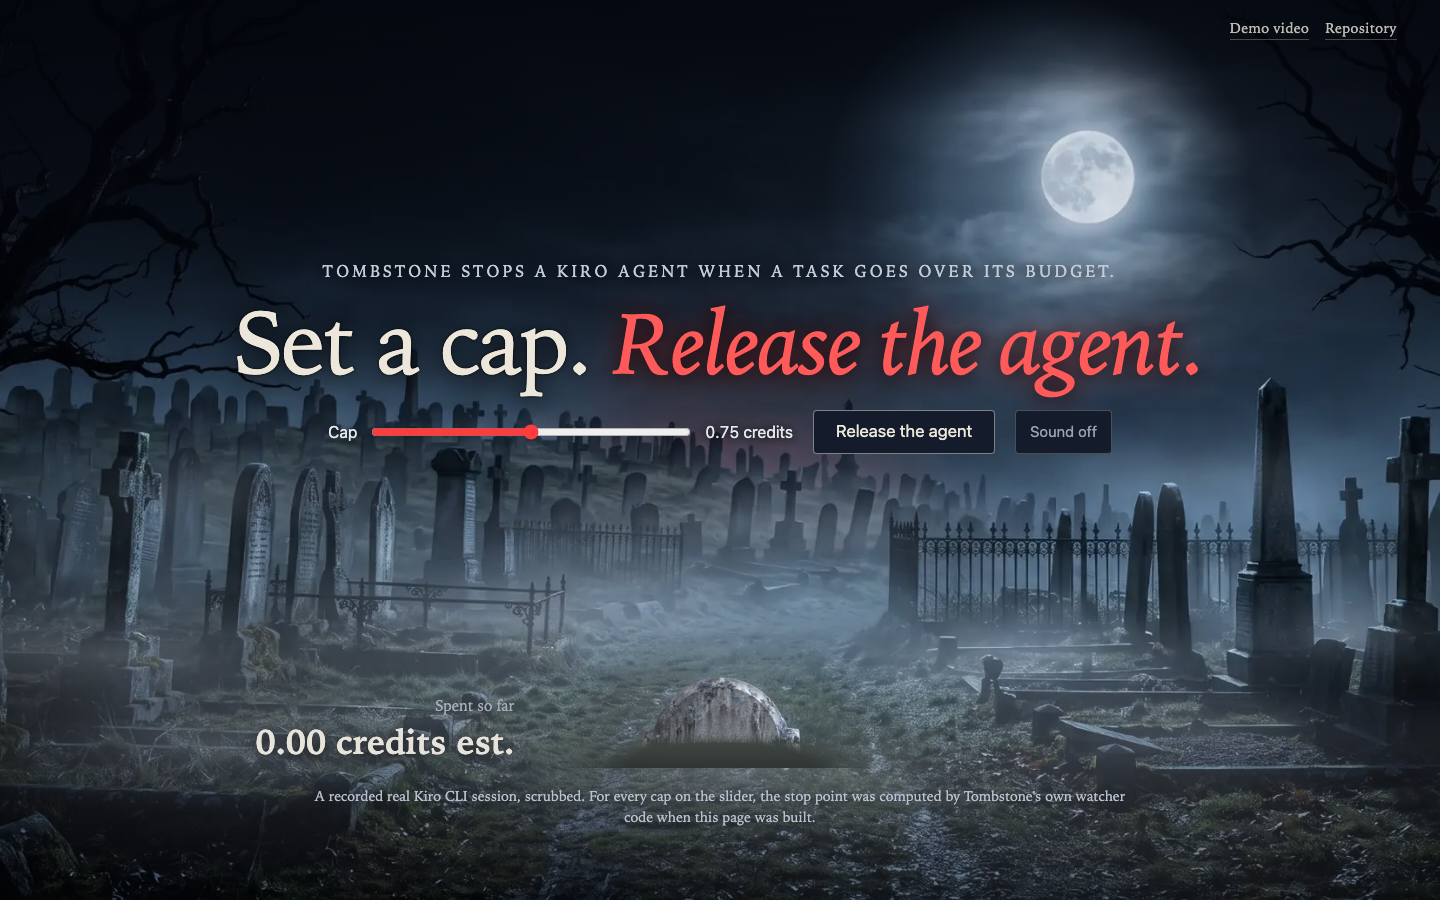
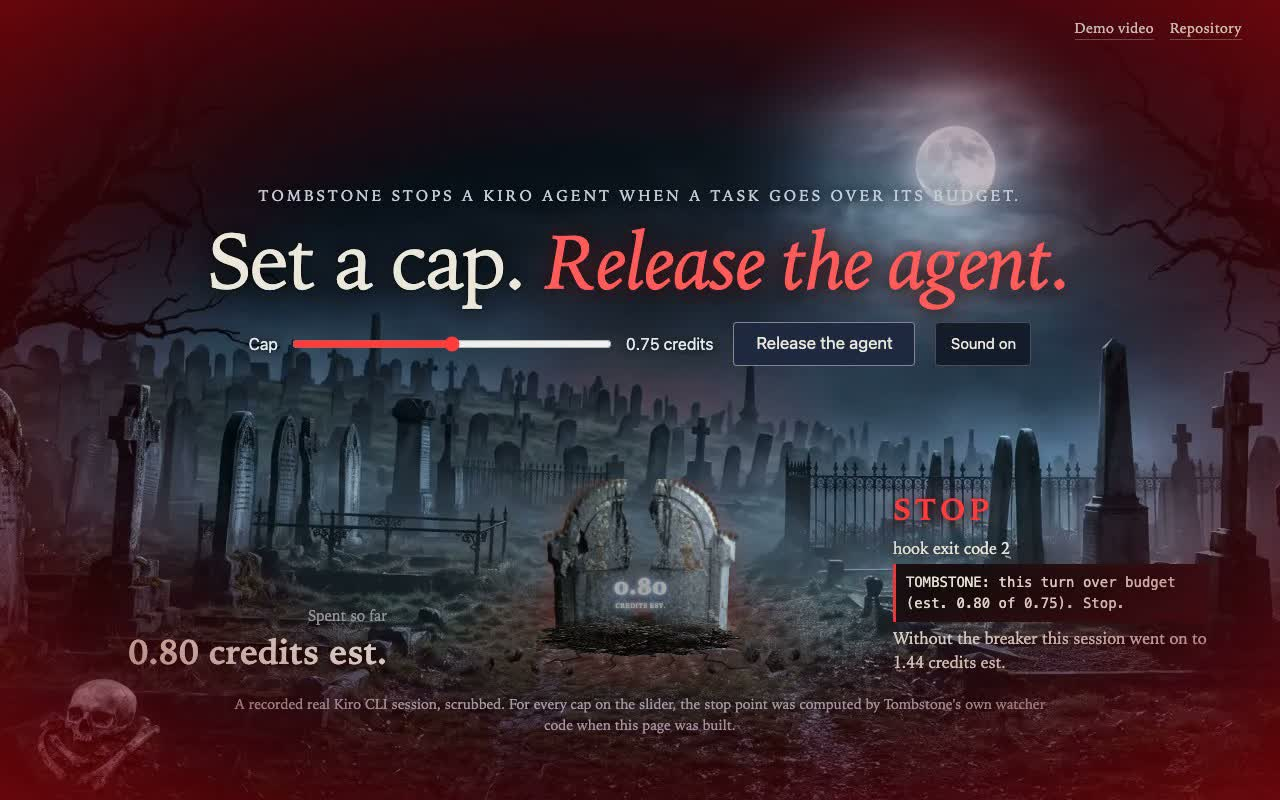
README and log: numbers of the current page, sound credits, new screenshot

diff --git a/README.md b/README.md
@@ -7,7 +7,7 @@
 
 **Who it's for:** a developer on a paid Kiro plan who starts a spec and walks away.
 
-**Built with Kiro:** the spec in `.kiro/specs/tombstone/` (17 requirements in EARS, 28 tasks), 7 command hooks, a steering file, the MCP tool `get_budget` and a Power in `power/`. One requirement followed all the way to the refusal the agent reads: [From spec to hook](#from-spec-to-hook).
+**Built with Kiro:** the spec in `.kiro/specs/tombstone/` (23 requirements in EARS, 34 tasks), 7 command hooks, a steering file, the MCP tool `get_budget` and a Power in `power/`. One requirement followed all the way to the refusal the agent reads: [From spec to hook](#from-spec-to-hook).
 
 Tombstone is a circuit breaker for Kiro specs. You give every spec task a credit cap. When a running task goes past it, Tombstone blocks the agent's next tool call with a plain message, and if the agent keeps going, it ends the `kiro-cli` process for that project. Every finished task gets a tombstone with its real price, and every stopped one leaves a receipt. The breaker itself spends zero credits and never changes your model.
 
@@ -21,9 +21,9 @@ Built for Kiroween 2026, Costume Contest. MIT. Tested on Kiro CLI 3.0.0 and 3.1.
 
 ![The first screen of the graveyard page: set a cap, release the agent, and the headstone cracks at the cap](docs/img/graveyard.png)
 
-The night cemetery and the headstone photo on the page were generated with Nano Banana Pro (Google Gemini) by the author; everything else on the page is drawn by code Kiro wrote.
+The night cemetery, the headstone, the soil and the bones on the page are photos the author generated with Nano Banana Pro (Google Gemini); the night ambience was generated with Suno and the stone, soil and split sounds with ElevenLabs. Sound starts with the first click and can be turned off. Everything that moves, and when it moves, is code Kiro wrote.
 
-Most graveyards in Kiroween bury code or tasks. This one buries money: every stone is what one Kiro spec task really cost, and every cracked stone is a task the breaker stopped. The 235.86 credits on the page are this repo's own build (223.49 credits over 95 stones) plus the 25 live test runs the breaker stopped (12.05 credits priced, and 0.32 estimated for the one turn Tombstone killed, since Kiro writes no price for a killed turn). Click a cracked stone and its card shows the receipt: why it stopped, the refusal the agent read and its last tool calls. 11 of the 25 stops kept a receipt; the scratch projects of the early runs are gone. So the page shows 120 stones: 95 from the build and 25 stops. Kiro's own `/usage` counts more, 347.69 credits, because it covers the whole account, with test runs, measurements, the cost experiment and the video recording.
+Most graveyards in Kiroween bury code or tasks. This one buries money: every stone is what one Kiro spec task really cost, and every cracked stone is a task the breaker stopped. The 282.45 credits on the page are this repo's own build (270.08 credits over 126 stones) plus the 25 live test runs the breaker stopped (12.05 credits priced, and 0.32 estimated for the one turn Tombstone killed, since Kiro writes no price for a killed turn). Click a cracked stone and its card shows the receipt: why it stopped, the refusal the agent read and its last tool calls. 11 of the 25 stops kept a receipt; the scratch projects of the early runs are gone. So the page shows 151 stones: 126 from the build and 25 stops. Kiro's own `/usage` counts more, 394.37 credits, because it covers the whole account, with test runs, measurements, the cost experiment and the video recording.
 
 - **Prices every spec task** in credits, from the session files Kiro already writes. Nothing leaves your machine.
 - **Stops a runaway turn** past its cap: the `PreToolUse` hook refuses the next tool call, and the agent reads why.
@@ -46,7 +46,7 @@ flowchart LR
 
 ## Try it in 60 seconds
 
-You don't need Kiro or credits for this part. You need Python 3.11 or newer; the `python3` that ships with macOS is often older, so the commands use [uv](https://docs.astral.sh/uv/). The repo carries the 95 real tombstones from its own build, the 25 turns the breaker stopped in our live tests (`live_stops.json`) and a real V3 session.
+You don't need Kiro or credits for this part. You need Python 3.11 or newer; the `python3` that ships with macOS is often older, so the commands use [uv](https://docs.astral.sh/uv/). The repo carries the 126 real tombstones from its own build, the 25 turns the breaker stopped in our live tests (`live_stops.json`) and a real V3 session.
 
 ```bash
 git clone https://github.com/DmitriyTopka/tombstone && cd tombstone
@@ -147,7 +147,7 @@ One line of the spec, followed to the refusal the agent reads:
 3. **Hook** [`.kiro/hooks/tombstone-pre-tool.json`](.kiro/hooks/tombstone-pre-tool.json): trigger `PreToolUse`, a shell command, no agent prompt, so it costs nothing.
 4. **Refusal**: Kiro gets exit code 2, refuses the tool and hands the agent `TOMBSTONE: this turn over budget (est. 0.11 of 0.10). Stop.`
 
-Where each Kiro surface sits: the spec (17 requirements in EARS, 28 tasks), 7 command hooks, a steering file, the MCP tool `get_budget`, and a Power in `power/`.
+Where each Kiro surface sits: the spec (23 requirements in EARS, 34 tasks), 7 command hooks, a steering file, the MCP tool `get_budget`, and a Power in `power/`.
 
 ## What surprised us about Kiro
 
@@ -160,7 +160,7 @@ Where each Kiro surface sits: the spec (17 requirements in EARS, 28 tasks), 7 co
 
 Every line of product code was written by Kiro CLI from the spec in `.kiro/specs/tombstone/`: `requirements.md` in EARS notation, `design.md` and `tasks.md` generated by Kiro from it. A human picked the next task, read the diff and ran the checks. Each task was run with `kiro-cli chat --no-interactive` and priced by Tombstone itself, with its own hooks installed in this repo.
 
-The build log with the credits per task is in [KIRO_LOG.md](KIRO_LOG.md). The 95 tombstones in [tombstones.json](tombstones.json) add up to 223.49 credits of priced turns: 73 spec tasks and 22 turns that ticked no checkbox, filed as unknown. The whole build, measurements, test runs, the cost experiment and the video recording included, used 347.69 credits by `/usage`. 637 tests run in about seven seconds and need no Kiro install.
+The build log with the credits per task is in [KIRO_LOG.md](KIRO_LOG.md). The 126 tombstones in [tombstones.json](tombstones.json) add up to 270.08 credits of priced turns: 104 spec tasks and 22 turns that ticked no checkbox, filed as unknown. The whole build, measurements, test runs, the cost experiment and the video recording included, used 394.37 credits by `/usage`. 686 tests run in about seven seconds and need no Kiro install.
 
 ## How we used Kiro
 

diff --git a/KIRO_LOG.md b/KIRO_LOG.md
@@ -275,3 +275,7 @@ Cost: about 7.53 credits for 28 and 28.4 (/usage 340.16 to 347.69).
 ## 2026-11-26 Task 29, the headstone breaks through the earth (approved by Dima)
 Dima's idea: the slab should break the ground, shed earth as it climbs, stand in a heap of soil and split in half only at the very end. Added Requirement 18 and task 29. Kiro: the ground heaves and cracks before the stone appears, clumps and crumbs fall with each step, the stone ends in a heap of earth sized by its height, and 450 ms after the last step STOP shows and the stone splits into two halves with a red glow in the gap. Inline SVG, CSS and script only. 642 tests pass. Checked by Claude in a browser at 1500 and 375 px mid-rise and after the split.
 Cost: about 5.34 credits (/usage 347.69 to 353.03).
+
+## 2026-11-26 Tasks 29 to 34.6, the first screen as a horror scene (approved by Dima step by step)
+Dima reviewed each recorded run and asked for changes; Claude turned each review into a requirement and a task, Kiro wrote all the code, and Claude checked every result in a browser (measured sizes, recorded runs, logged which sounds the page played). In order: the headstone breaks through the earth and splits only at the end (29 to 29.7); photographed soil, clods, bones and a new headstone at real-world scale with a glowing figure (30 to 30.5); a night ambience from Suno and six effects from ElevenLabs behind the sound toggle (31, 32); sound on by default from the first click, a violent eruption of earth, no milky fog (33); a first-person damage vignette that rises with the spend and stays at the stop, a still camera, the hand removed, and one stone-slide sound whose gain follows the stone's speed (34 to 34.6). The images and sounds were generated by Dima or with his accounts and are credited on the page. 686 tests pass.
+Cost: about 39 credits for tasks 29 to 34.6 (/usage 355.67 to 394.37).
